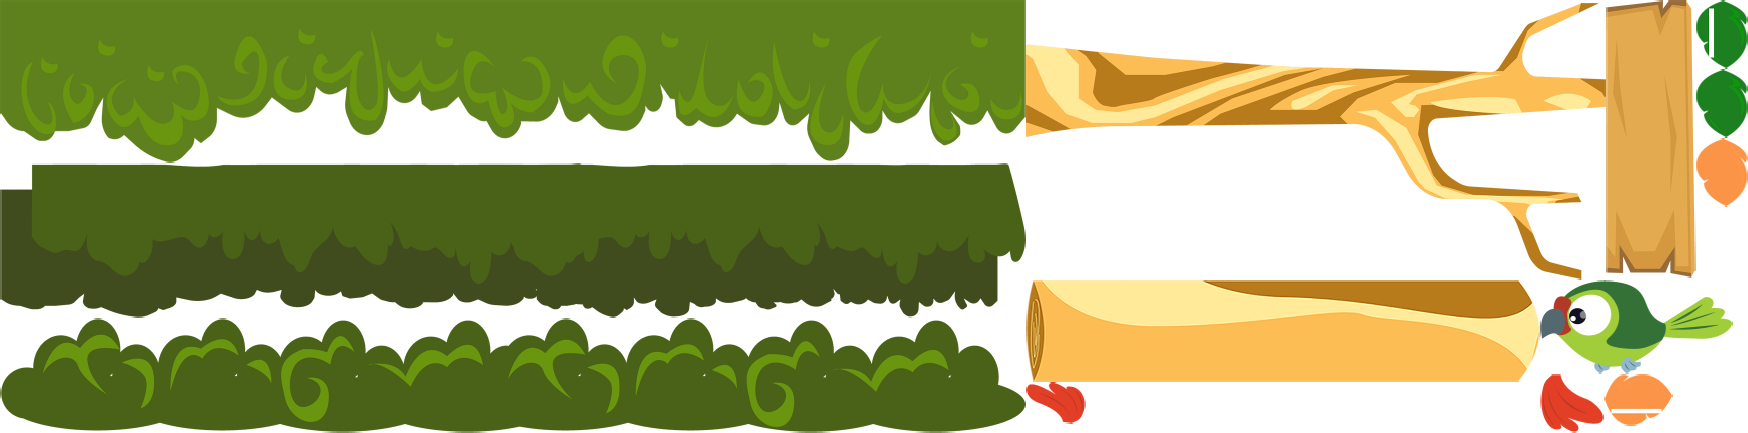
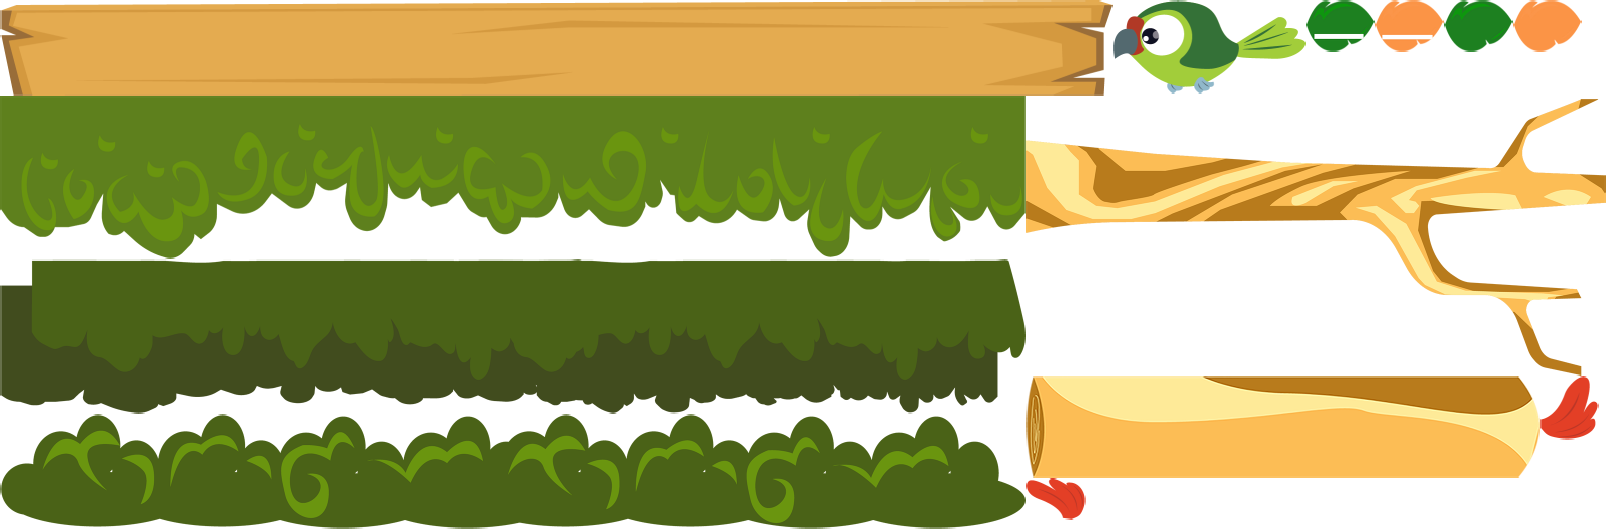
changes in top_board for owl game

diff --git a/goa/frameworks/runtime-src/Classes/mini_games/Owl.cpp b/goa/frameworks/runtime-src/Classes/mini_games/Owl.cpp
@@ -71,7 +71,7 @@ void Owl::onEnterTransitionDidFinish()
 					{ "gridOrange","owljungle/smallbar_green.png" },
 					{ "gridGreen","owljungle/smallbar_orange.png" },
 					{ "gridWhite","owljungle/smallbar_orange.png" },
-					{ "topBoard","board" },
+					{ "topBoard","board_8" },
 					{ "whiteBoard","smallbar_white" },
 					{ "whiteBoard2","smallbar_white" },
 					{ "bodyCharacter","bird_1"},
@@ -130,7 +130,7 @@ void Owl::onEnterTransitionDidFinish()
 	
 	int gameCurrentLevel = _menuContext->getCurrentLevel();
 	std::tuple<int, int , int> levelKeyNumber = levelAllInfo(gameCurrentLevel,5,5,3,10);
-
+	string categoryTitle = "";
 	if (std::get<0>(levelKeyNumber) == 1) {
 		auto listOfWords = TextGenerator::getInstance()->getWords(TextGenerator::P_O_S::ANY ,5, std::get<2>(levelKeyNumber));
 		
@@ -138,17 +138,22 @@ void Owl::onEnterTransitionDidFinish()
 			_data_key.push_back(getConvertInUpperCase(listOfWords[index]));
 		}
 		_data_value = _data_key;
+		categoryTitle = "Make same word : ";
 	}
 	else if (std::get<0>(levelKeyNumber) == 2) {
+		categoryTitle = "Make plural of : ";
 		_data = TextGenerator::getInstance()->getSingularPlurals(5, std::get<2>(levelKeyNumber));
 	}
 	else if (std::get<0>(levelKeyNumber) == 3) {
+		categoryTitle = "Make opposite of : ";
 		_data = TextGenerator::getInstance()->getAntonyms(5, std::get<2>(levelKeyNumber));
 	}
 	else if (std::get<0>(levelKeyNumber) == 4) {
+		categoryTitle = "Make word of same meaning as : ";
 		_data = TextGenerator::getInstance()->getSynonyms(5, std::get<2>(levelKeyNumber));
 	}
 	else if (std::get<0>(levelKeyNumber) == 5) {
+		categoryTitle = "Make same sounding word as : ";
 		_data = TextGenerator::getInstance()->getHomonyms(5, std::get<2>(levelKeyNumber));
 	}
 
@@ -225,10 +230,17 @@ void Owl::onEnterTransitionDidFinish()
 	}
 	auto board = bg->getChildByName(themeResourcePath.at("topBoard"));
 	board->setName("topBoard");
-	_textLabel = LabelTTF::create(_data_key[_textBoard], "Helvetica", board->getContentSize().height *0.8);
+
+	_sentence = LangUtil::getInstance()->translateString(categoryTitle);
+
+	std::ostringstream boardName;	
+	boardName << _sentence << _data_key[_textBoard];
+
+	_textLabel = LabelTTF::create(boardName.str(), "Helvetica", board->getContentSize().height *0.5);
 	_textLabel->setPosition(board->getContentSize().width/2,board->getContentSize().height/2);
 	_textLabel->setAnchorPoint(Vec2(0.5, 0.5));
 	_textLabel->setName("text");
+
 	board->addChild(_textLabel);
 
 	_textOwlBoard = LabelTTF::create("", "Helvetica", _sprite->getChildByName(themeResourcePath.at("whiteBoard"))->getContentSize().height *0.8);
@@ -594,7 +606,10 @@ void Owl::addEventsOnGrid(cocos2d::Sprite* callerObject)
 							}
 
 							if (_textCounter == blockChild.size() && _blockLevel1 < _data_key.size()) {
-								_textLabel->setString(_data_key[++_textBoard]);
+								std::ostringstream boardName;
+								boardName << _sentence << _data_key[++_textBoard];
+
+								_textLabel->setString(boardName.str());
 								setBuildingBlock(++_blockLevel1);
 								crateLetterGridOnBuilding(_blockLevel1, _data_value[_textBoard]);
 								_textCounter = 0;

diff --git a/goa/frameworks/runtime-src/Classes/mini_games/Owl.h b/goa/frameworks/runtime-src/Classes/mini_games/Owl.h
@@ -24,7 +24,7 @@ protected:
 	std::vector<std::string> _data_key;
 	std::vector<std::string> _data_value;
 
-	string _owlCurrentTheme = "";
+	string _owlCurrentTheme = "" , _sentence = "";
 	string _displayWord[5] = { "A","AB","ABC","ABCD","ABCDE"};
 	int _blockLevel1 = 0, _heightBlock1 =0, _heightBlock2=0, counter = 0, counter2 = 0, _textCounter = 0, _textCounter2 = 0,_textBoard=0, _textBoard2 =0, _blockLevel2 = 0;
 	double _xStart=0, _yStart=0, _xStop=0;
